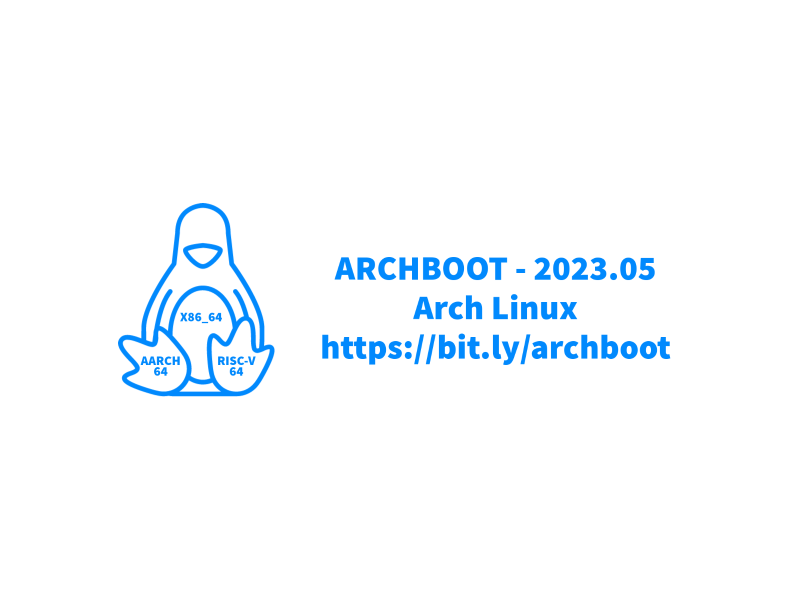
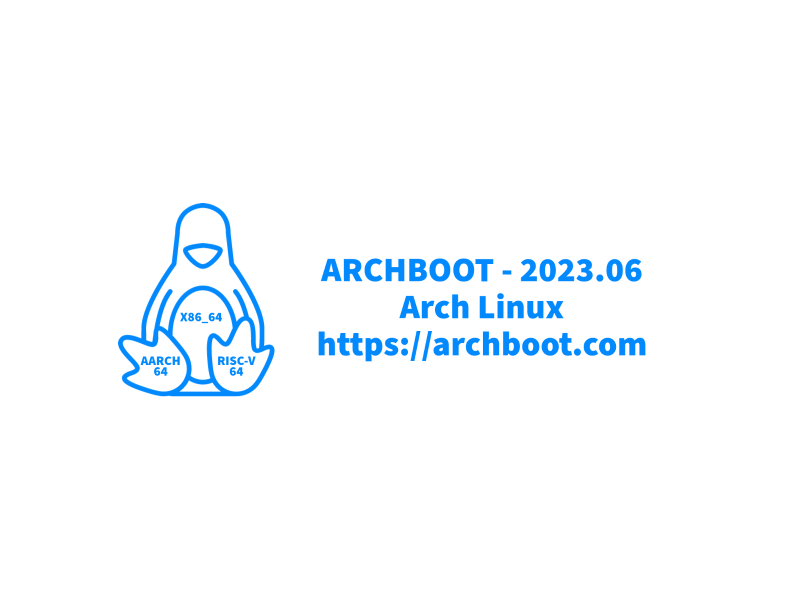
prepare move to archboot.com for 2023.06 release

Changed region(s): [[0.375, 0.42, 0.8438, 0.63]]

diff --git a/usr/share/archboot/doc/archboot.html b/usr/share/archboot/doc/archboot.html
@@ -173,7 +173,7 @@
 <body>
 <h1>Archboot Homepage</h1>
 <p>&copy; Tobias Powalowski | Arch Linux Developer </span><a href="https://archlinux.org/people/developers/#tpowa"><strong>tpowa</strong></a><span dir=""><br><strong>Last update:</strong> 25.05.2023 10:27<br></p>
-<p><span dir=""><img src="https://pkgbuild.com/~tpowa/archboot/web/logo.png" alt="Logo"></span></p>
+<p><span dir=""><img src="https://archboot.com/web/logo.png" alt="Logo"></span></p>
 <p><span dir=""><a href="https://www.paypal.com/cgi-bin/webscr?cmd=_s-xclick&amp;hosted_button_id=Z7GXKW4MKHK7C"><img src="https://www.paypalobjects.com/en_US/i/btn/btn_donate_LG.gif" alt="Donate" /></a> You like the project? I like coffee :-)</span></p>
 <nav id="TOC" role="doc-toc">
 <ul>
@@ -236,7 +236,7 @@
 <span dir="">First it was used as official install medium from Arch Linux 0.7 till 2008.03 release and is developed by </span><a href="https://archlinux.org/people/developers/#tpowa"><strong>tpowa</strong></a><span dir=""> since 2006.</span></p>
 <h2 data-number="2" id="image-releases"><span class="header-section-number">2.</span> <span dir="">Image Releases</span></h2>
 <ul>
-<li><a href="https://www.reddit.com/r/archboot/"><strong>Latest News</strong></a>, <a href="https://gitlab.archlinux.org/tpowa/archboot/-/blob/master/CHANGELOG"><strong>Changelog</strong></a>, <a href="https://pkgbuild.com/~tpowa/archboot/web/gallery.html"><strong>Screenshot Gallery</strong></a>, <a href="https://bit.ly/archboot-all"><strong>Sources</strong></a>.</li>
+<li><a href="https://www.reddit.com/r/archboot/"><strong>Latest News</strong></a>, <a href="https://gitlab.archlinux.org/tpowa/archboot/-/blob/master/CHANGELOG"><strong>Changelog</strong></a>, <a href="https://archboot.com/web/gallery.html"><strong>Screenshot Gallery</strong></a>, <a href="https://bit.ly/archboot-all"><strong>Sources</strong></a>.</li>
 <li><strong>Release schedule</strong>: on 10th, 20th and 30th of a month new images are released.</li>
 <li><a href="https://wiki.syslinux.org/wiki/index.php?title=Isohybrid"><strong>Hybrid images</strong></a>, <a href="https://wiki.archlinux.org/title/Unified_kernel_image" title="UKI"><strong><span dir="">Unified Kernel Images</span></strong></a>, <a href="https://wiki.archlinux.org/title/Kernel" title="Kernel"><strong>kernel</strong></a>, <a href="https://wiki.archlinux.org/title/Initrd" title="Initrd"><strong>initrds</strong></a>, and <a href="https://wiki.archlinux.org/title/Microcode" title="Microcode"><strong><span dir="">microcodes</span></strong></a> are provided.</li>
 <li><strong>PGP KEY</strong>: <a href="https://keyserver.ubuntu.com/pks/lookup?op=vindex&amp;fingerprint=on&amp;exact=on&amp;search=0x5B7E3FB71B7F10329A1C03AB771DF6627EDF681F"><strong>5B7E 3FB7 1B7F 1032 9A1C 03AB 771D F662 7EDF 681F</strong></a> for file verification is provided.</li>
@@ -256,9 +256,9 @@
 </thead>
 <tbody>
 <tr class="odd">
-<td><a href="https://pkgbuild.com/~tpowa/archboot/iso/aarch64/latest/Release.txt"><strong>Latest</strong></a></td>
+<td><a href="https://archboot.com/iso/aarch64/latest/Release.txt"><strong>Latest</strong></a></td>
 <td><a href="https://bit.ly/archboot-aarch64"><strong>Download</strong></a></td>
-<td><a href="https://pkgbuild.com/~tpowa/archboot/iso/aarch64/latest/sha256sum.txt"><strong>Check</strong></a></td>
+<td><a href="https://archboot.com/iso/aarch64/latest/sha256sum.txt"><strong>Check</strong></a></td>
 <td><a href="https://archlinuxarm.org/forum/viewtopic.php?f=8&amp;t=15777"><strong>Check</strong></a></td>
 </tbody>
 </table>
@@ -278,9 +278,9 @@
 </thead>
 <tbody>
 <tr class="odd">
-<td><a href="https://pkgbuild.com/~tpowa/archboot/iso/riscv64/latest/Release.txt"><strong>Latest</strong></a></td>
+<td><a href="https://archboot.com/iso/riscv64/latest/Release.txt"><strong>Latest</strong></a></td>
 <td><a href="https://bit.ly/archboot-riscv64"><strong>Download</strong></a></td>
-<td><a href="https://pkgbuild.com/~tpowa/archboot/iso/riscv64/latest/sha256sum.txt"><strong>Check</strong></a></td>
+<td><a href="https://archboot.com/iso/riscv64/latest/sha256sum.txt"><strong>Check</strong></a></td>
 </tbody>
 </table>
 </ul>
@@ -300,9 +300,9 @@
 </thead>
 <tbody>
 <tr class="odd">
-<td><a href="https://pkgbuild.com/~tpowa/archboot/iso/x86_64/latest/Release.txt"><strong>Latest</strong></a></td>
+<td><a href="https://archboot.com/iso/x86_64/latest/Release.txt"><strong>Latest</strong></a></td>
 <td><a href="https://bit.ly/archboot-x86_64"><strong>Download</strong></a></td>
-<td><a href="https://pkgbuild.com/~tpowa/archboot/iso/x86_64/latest/sha256sum.txt"><strong>Check</strong></a></td>
+<td><a href="https://archboot.com/iso/x86_64/latest/sha256sum.txt"><strong>Check</strong></a></td>
 <td><a href="https://bbs.archlinux.org/viewtopic.php?id=182439"><strong>Check</strong></a></td>
 </tbody>
 </table>
@@ -378,14 +378,14 @@
 </tr>
 <tr class="even">
 <td>
-<a href="https://pkgbuild.com/~tpowa/archboot/iso/aarch64/latest/boot/archboot-aarch64.efi"><strong>archboot-aarch64.efi</strong></a>[<a href="https://pkgbuild.com/~tpowa/archboot/iso/aarch64/latest/boot/archboot-aarch64.efi.sig"><strong>.sig</strong></a>]<br>
-<a href="https://pkgbuild.com/~tpowa/archboot/iso/aarch64/latest/boot/archboot-latest-aarch64.efi"><strong>archboot-latest-aarch64.efi</strong></a>[<a href="https://pkgbuild.com/~tpowa/archboot/iso/aarch64/latest/boot/archboot-latest-aarch64.efi.sig"><strong>.sig</strong></a>]<br>
-<a href="https://pkgbuild.com/~tpowa/archboot/iso/aarch64/latest/boot/archboot-local-aarch64.efi"><strong>archboot-local-aarch64.efi</strong></a>[<a href="https://pkgbuild.com/~tpowa/archboot/iso/aarch64/latest/boot/archboot-local-aarch64.efi.sig"><strong>.sig</strong></a>]<br>
+<a href="https://archboot.com/iso/aarch64/latest/boot/archboot-aarch64.efi"><strong>archboot-aarch64.efi</strong></a>[<a href="https://archboot.com/iso/aarch64/latest/boot/archboot-aarch64.efi.sig"><strong>.sig</strong></a>]<br>
+<a href="https://archboot.com/iso/aarch64/latest/boot/archboot-latest-aarch64.efi"><strong>archboot-latest-aarch64.efi</strong></a>[<a href="https://archboot.com/iso/aarch64/latest/boot/archboot-latest-aarch64.efi.sig"><strong>.sig</strong></a>]<br>
+<a href="https://archboot.com/iso/aarch64/latest/boot/archboot-local-aarch64.efi"><strong>archboot-local-aarch64.efi</strong></a>[<a href="https://archboot.com/iso/aarch64/latest/boot/archboot-local-aarch64.efi.sig"><strong>.sig</strong></a>]<br>
 </td>
 <td>
-<a href="https://pkgbuild.com/~tpowa/archboot/iso/x86_64/latest/boot/archboot-x86_64.efi"><strong>archboot-x86_64.efi</strong></a>[<a href="https://pkgbuild.com/~tpowa/archboot/iso/x86_64/latest/boot/archboot-x86_64.efi.sig"><strong>.sig</strong></a>]<br>
-<a href="https://pkgbuild.com/~tpowa/archboot/iso/x86_64/latest/boot/archboot-latest-x86_64.efi"><strong>archboot-latest-x86_64.efi</strong></a>[<a href="https://pkgbuild.com/~tpowa/archboot/iso/x86_64/latest/boot/archboot-latest-x86_64.efi.sig"><strong>.sig</strong></a>]<br>
-<a href="https://pkgbuild.com/~tpowa/archboot/iso/x86_64/latest/boot/archboot-local-x86_64.efi"><strong>archboot-local-x86_64.efi</strong></a>[<a href="https://pkgbuild.com/~tpowa/archboot/iso/x86_64/latest/boot/archboot-local-x86_64.efi.sig"><strong>.sig</strong></a>]<br>
+<a href="https://archboot.com/iso/x86_64/latest/boot/archboot-x86_64.efi"><strong>archboot-x86_64.efi</strong></a>[<a href="https://archboot.com/iso/x86_64/latest/boot/archboot-x86_64.efi.sig"><strong>.sig</strong></a>]<br>
+<a href="https://archboot.com/iso/x86_64/latest/boot/archboot-latest-x86_64.efi"><strong>archboot-latest-x86_64.efi</strong></a>[<a href="https://archboot.com/iso/x86_64/latest/boot/archboot-latest-x86_64.efi.sig"><strong>.sig</strong></a>]<br>
+<a href="https://archboot.com/iso/x86_64/latest/boot/archboot-local-x86_64.efi"><strong>archboot-local-x86_64.efi</strong></a>[<a href="https://archboot.com/iso/x86_64/latest/boot/archboot-local-x86_64.efi.sig"><strong>.sig</strong></a>]<br>
 </td>
 </tr>
 </tbody>
@@ -406,28 +406,28 @@
 <tr class="odd">
 <td><strong>Kernel</strong></td>
 <td>
-<a href="https://pkgbuild.com/~tpowa/archboot/iso/aarch64/latest/boot/Image-archboot-aarch64"><strong>Image-archboot-aarch64</strong></a>[<a href="https://pkgbuild.com/~tpowa/archboot/iso/aarch64/latest/boot/Image-archboot-aarch64.sig"><strong>.sig</strong></a>]<br>
-<a href="https://pkgbuild.com/~tpowa/archboot/iso/aarch64/latest/boot/Image-archboot-aarch64.gz"><strong>Image-archboot-aarch64.gz</strong></a>[<a href="https://pkgbuild.com/~tpowa/archboot/iso/aarch64/latest/boot/Image-archboot-aarch64.gz.sig"><strong>.sig</strong></a>]
+<a href="https://archboot.com/iso/aarch64/latest/boot/Image-archboot-aarch64"><strong>Image-archboot-aarch64</strong></a>[<a href="https://archboot.com/iso/aarch64/latest/boot/Image-archboot-aarch64.sig"><strong>.sig</strong></a>]<br>
+<a href="https://archboot.com/iso/aarch64/latest/boot/Image-archboot-aarch64.gz"><strong>Image-archboot-aarch64.gz</strong></a>[<a href="https://archboot.com/iso/aarch64/latest/boot/Image-archboot-aarch64.gz.sig"><strong>.sig</strong></a>]
 </td>
 <td>
-<a href="https://pkgbuild.com/~tpowa/archboot/iso/riscv64/latest/boot/vmlinuz-archboot-riscv64"><strong>vmlinuz-archboot-riscv64</strong></a>[<a href="https://pkgbuild.com/~tpowa/archboot/iso/riscv64/latest/boot/vmlinuz-archboot-riscv64.sig"><strong>.sig</strong></a>]<br>
+<a href="https://archboot.com/iso/riscv64/latest/boot/vmlinuz-archboot-riscv64"><strong>vmlinuz-archboot-riscv64</strong></a>[<a href="https://archboot.com/iso/riscv64/latest/boot/vmlinuz-archboot-riscv64.sig"><strong>.sig</strong></a>]<br>
 </td>
 </tr>
 <tr class="even">
 <td><strong>Initrd</strong></td>
 <td>
-<a href="https://pkgbuild.com/~tpowa/archboot/iso/aarch64/latest/boot/initramfs-aarch64.img"><strong>initramfs-aarch64.img</strong></a>[<a href="https://pkgbuild.com/~tpowa/archboot/iso/aarch64/latest/boot/initramfs-aarch64.img.sig"><strong>.sig</strong></a>]<br>
-<a href="https://pkgbuild.com/~tpowa/archboot/iso/aarch64/latest/boot/initramfs-latest-aarch64.img"><strong>initramfs-latest-aarch64.img</strong></a>[<a href="https://pkgbuild.com/~tpowa/archboot/iso/aarch64/latest/boot/initramfs-latest-aarch64.img.sig"><strong>.sig</strong></a>]<br>
-<a href="https://pkgbuild.com/~tpowa/archboot/iso/aarch64/latest/boot/initramfs-local-aarch64.img"><strong>initramfs-local-aarch64.img</strong></a>[<a href="https://pkgbuild.com/~tpowa/archboot/iso/aarch64/latest/boot/initramfs-local-aarch64.img.sig"><strong>.sig</strong></a>]<br>
+<a href="https://archboot.com/iso/aarch64/latest/boot/initramfs-aarch64.img"><strong>initramfs-aarch64.img</strong></a>[<a href="https://archboot.com/iso/aarch64/latest/boot/initramfs-aarch64.img.sig"><strong>.sig</strong></a>]<br>
+<a href="https://archboot.com/iso/aarch64/latest/boot/initramfs-latest-aarch64.img"><strong>initramfs-latest-aarch64.img</strong></a>[<a href="https://archboot.com/iso/aarch64/latest/boot/initramfs-latest-aarch64.img.sig"><strong>.sig</strong></a>]<br>
+<a href="https://archboot.com/iso/aarch64/latest/boot/initramfs-local-aarch64.img"><strong>initramfs-local-aarch64.img</strong></a>[<a href="https://archboot.com/iso/aarch64/latest/boot/initramfs-local-aarch64.img.sig"><strong>.sig</strong></a>]<br>
 </td>
 <td>
-<a href="https://pkgbuild.com/~tpowa/archboot/iso/riscv64/latest/boot/initramfs-riscv64.img"><strong>initramfs-riscv64.img</strong></a>[<a href="https://pkgbuild.com/~tpowa/archboot/iso/riscv64/latest/boot/initramfs-riscv64.img.sig"><strong>.sig</strong>]</a><br>
+<a href="https://archboot.com/iso/riscv64/latest/boot/initramfs-riscv64.img"><strong>initramfs-riscv64.img</strong></a>[<a href="https://archboot.com/iso/riscv64/latest/boot/initramfs-riscv64.img.sig"><strong>.sig</strong>]</a><br>
 </td>
 </tr>
 <tr class="odd">
 <td><strong>Microcode</strong></td>
 <td>
-<a href="https://pkgbuild.com/~tpowa/archboot/iso/aarch64/latest/boot/amd-ucode.img"><strong>amd-ucode.img</strong></a>[<a href="https://pkgbuild.com/~tpowa/archboot/iso/aarch64/latest/boot/amd-ucode.img.sig"><strong>.sig</strong></a>]<br>
+<a href="https://archboot.com/iso/aarch64/latest/boot/amd-ucode.img"><strong>amd-ucode.img</strong></a>[<a href="https://archboot.com/iso/aarch64/latest/boot/amd-ucode.img.sig"><strong>.sig</strong></a>]<br>
 </td>
 <td></td>
 </tbody>
@@ -443,22 +443,22 @@
 <tr class="odd">
 <td><strong>Kernel</strong></td>
 <td>
-<a href="https://pkgbuild.com/~tpowa/archboot/iso/x86_64/latest/boot/vmlinuz-archboot-x86_64"><strong>vmlinuz-archboot-x86_64</strong></a>[<a href="https://pkgbuild.com/~tpowa/archboot/iso/x86_64/latest/boot/vmlinuz-archboot-x86_64.sig"><strong>.sig</strong></a>]<br>
+<a href="https://archboot.com/iso/x86_64/latest/boot/vmlinuz-archboot-x86_64"><strong>vmlinuz-archboot-x86_64</strong></a>[<a href="https://archboot.com/iso/x86_64/latest/boot/vmlinuz-archboot-x86_64.sig"><strong>.sig</strong></a>]<br>
 </td>
 </tr>
 <tr class="even">
 <td><strong>Initrd</strong></td>
 <td>
-<a href="https://pkgbuild.com/~tpowa/archboot/iso/x86_64/latest/boot/initramfs-x86_64.img"><strong>initramfs-x86_64.img</strong></a>[<a href="https://pkgbuild.com/~tpowa/archboot/iso/x86_64/latest/boot/initramfs-x86_64.img.sig"><strong>.sig</strong></a>]<br>
-<a href="https://pkgbuild.com/~tpowa/archboot/iso/x86_64/latest/boot/initramfs-latest-x86_64.img"><strong>initramfs-latest-x86_64.img</strong></a>[<a href="https://pkgbuild.com/~tpowa/archboot/iso/x86_64/latest/boot/initramfs-latest-x86_64.img.sig"><strong>.sig</strong></a>]<br>
-<a href="https://pkgbuild.com/~tpowa/archboot/iso/x86_64/latest/boot/initramfs-local-x86_64.img"><strong>initramfs-local-x86_64.img</strong></a>[<a href="https://pkgbuild.com/~tpowa/archboot/iso/x86_64/latest/boot/initramfs-local-x86_64.img.sig"><strong>.sig</strong></a>]<br>
+<a href="https://archboot.com/iso/x86_64/latest/boot/initramfs-x86_64.img"><strong>initramfs-x86_64.img</strong></a>[<a href="https://archboot.com/iso/x86_64/latest/boot/initramfs-x86_64.img.sig"><strong>.sig</strong></a>]<br>
+<a href="https://archboot.com/iso/x86_64/latest/boot/initramfs-latest-x86_64.img"><strong>initramfs-latest-x86_64.img</strong></a>[<a href="https://archboot.com/iso/x86_64/latest/boot/initramfs-latest-x86_64.img.sig"><strong>.sig</strong></a>]<br>
+<a href="https://archboot.com/iso/x86_64/latest/boot/initramfs-local-x86_64.img"><strong>initramfs-local-x86_64.img</strong></a>[<a href="https://archboot.com/iso/x86_64/latest/boot/initramfs-local-x86_64.img.sig"><strong>.sig</strong></a>]<br>
 </td>
 </tr>
 <tr class="odd">
 <td><strong>Microcode</strong></td>
 <td>
-<a href="https://pkgbuild.com/~tpowa/archboot/iso/x86_64/latest/boot/amd-ucode.img"><strong>amd-ucode.img</strong></a>[<a href="https://pkgbuild.com/~tpowa/archboot/iso/x86_64/latest/boot/amd-ucode.img.sig"><strong>.sig</strong></a>]<br>
-<a href="https://pkgbuild.com/~tpowa/archboot/iso/x86_64/latest/boot/intel-ucode.img"><strong>intel-ucode.img</strong></a>[<a href="https://pkgbuild.com/~tpowa/archboot/iso/x86_64/latest/boot/intel-ucode.img.sig"><strong>.sig</strong></a>]<br>
+<a href="https://archboot.com/iso/x86_64/latest/boot/amd-ucode.img"><strong>amd-ucode.img</strong></a>[<a href="https://archboot.com/iso/x86_64/latest/boot/amd-ucode.img.sig"><strong>.sig</strong></a>]<br>
+<a href="https://archboot.com/iso/x86_64/latest/boot/intel-ucode.img"><strong>intel-ucode.img</strong></a>[<a href="https://archboot.com/iso/x86_64/latest/boot/intel-ucode.img.sig"><strong>.sig</strong></a>]<br>
 </td>
 </tbody>
 </table>
@@ -1184,7 +1184,7 @@ It’s an initramdisk which includes everything. The calculated size to boot the
 </thead>
 <tbody>
 <tr class="odd">
-<td><code>[archboot]<br>Server = https://pkgbuild.com/~tpowa/archboot/pkg</code></td>
+<td><code>[archboot]<br>Server = https://archboot.com/pkg</code></td>
 </tr>
 </tbody>
 </table>
@@ -1225,7 +1225,7 @@ It’s an initramdisk which includes everything. The calculated size to boot the
 </thead>
 <tbody>
 <tr class="odd">
-<td><code># archboot-x86_64-release.sh &lt;directory&gt; \<br>https://pkgbuild.com/~tpowa/archboot/src/iso/x86_64/latest/</code></td>
+<td><code># archboot-x86_64-release.sh &lt;directory&gt; \<br>https://archboot.com/src/iso/x86_64/latest/</code></td>
 </tr>
 </tbody>
 </table>
@@ -1584,9 +1584,9 @@ There are the following configuration files for ISO creation:
 <ul>
 <li><a href="https://www.reddit.com/r/archboot"><strong>Blog</strong></a></li>
 <li><a href="https://gitlab.archlinux.org/tpowa/archboot"><strong>Project page</strong></a></li>
-<li><a href="https://pkgbuild.com/~tpowa/archboot/iso"><strong>Download</strong></a></li>
-<li><a href="https://pkgbuild.com/~tpowa/archboot/web/gallery.html" target="_blank"><strong>Screenshots</strong></a></li>
-<li><a href="https://pkgbuild.com/~tpowa/archboot/src"><strong>Build sources</strong></a></li>
+<li><a href="https://archboot.com/iso"><strong>Download</strong></a></li>
+<li><a href="https://archboot.com/web/gallery.html" target="_blank"><strong>Screenshots</strong></a></li>
+<li><a href="https://archboot.com/src"><strong>Build sources</strong></a></li>
 <li><a href="https://gitlab.archlinux.org/tpowa/archboot-repository"><strong>Repository</strong></a></li>
 </ul>
 <h2 data-number="9" id="quick-links-videos"><span class="header-section-number">9.</span> <span dir="">Quick links videos</span></h2>

diff --git a/usr/share/archboot/doc/gallery.html b/usr/share/archboot/doc/gallery.html
@@ -173,23 +173,23 @@
 <body>
 <h1>Archboot Gallery</h1>
 <p>&copy; Tobias Powalowski | Arch Linux Developer </span><a href="https://archlinux.org/people/developers/#tpowa"><strong>tpowa</strong></a><span dir=""><br><strong>Last update:</strong> 24.05.2023 12:56<br></a><span dir=""></p>
-<p><span dir=""><img src="https://pkgbuild.com/~tpowa/archboot/web/logo.png"></span></p>
+<p><span dir=""><img src="https://archboot.com/web/logo.png"></span></p>
 <p><span dir=""><a href="https://www.paypal.com/cgi-bin/webscr?cmd=_s-xclick&amp;hosted_button_id=Z7GXKW4MKHK7C"><img src="https://www.paypalobjects.com/en_US/i/btn/btn_donate_LG.gif" alt="Donate" /></a> You like the project? I like coffee :-)</span></p>
 <h2>Grub Menu</h2>
-<p><span dir=""><img src="https://pkgbuild.com/~tpowa/archboot/web/01-welcome-grub.png"></span></p>
+<p><span dir=""><img src="https://archboot.com/web/01-welcome-grub.png"></span></p>
 <h2>Welcome Message</h2>
-<p><span dir=""><img src="https://pkgbuild.com/~tpowa/archboot/web/01-welcome-motd.png"></span></p>
+<p><span dir=""><img src="https://archboot.com/web/01-welcome-motd.png"></span></p>
 <h2>Setup Menu</h2>
-<p><span dir=""><img src="https://pkgbuild.com/~tpowa/archboot/web/02-setup-main.png"></span></p>
+<p><span dir=""><img src="https://archboot.com/web/02-setup-main.png"></span></p>
 <h2>Update Installer Options</h2>
-<p><span dir=""><img src="https://pkgbuild.com/~tpowa/archboot/web/03-update-installer.png"></span></p>
+<p><span dir=""><img src="https://archboot.com/web/03-update-installer.png"></span></p>
 <h2>Update Installer Action</h2>
-<p><span dir=""><img src="https://pkgbuild.com/~tpowa/archboot/web/04-update-installer-finish.png"></span></p>
+<p><span dir=""><img src="https://archboot.com/web/04-update-installer-finish.png"></span></p>
 <h2>Gnome Desktop</h2>
-<p><span dir=""><img src="https://pkgbuild.com/~tpowa/archboot/web/13-gnome.png"></span></p>
+<p><span dir=""><img src="https://archboot.com/web/13-gnome.png"></span></p>
 <h2>Plasma Desktop</h2>
-<p><span dir=""><img src="https://pkgbuild.com/~tpowa/archboot/web/14-plasma.png"></span></p>
+<p><span dir=""><img src="https://archboot.com/web/14-plasma.png"></span></p>
 <h2>Xfce Desktop</h2>
-<p><span dir=""><img src="https://pkgbuild.com/~tpowa/archboot/web/15-xfce.png"></span></p>
+<p><span dir=""><img src="https://archboot.com/web/15-xfce.png"></span></p>
 </body>
 </html>
